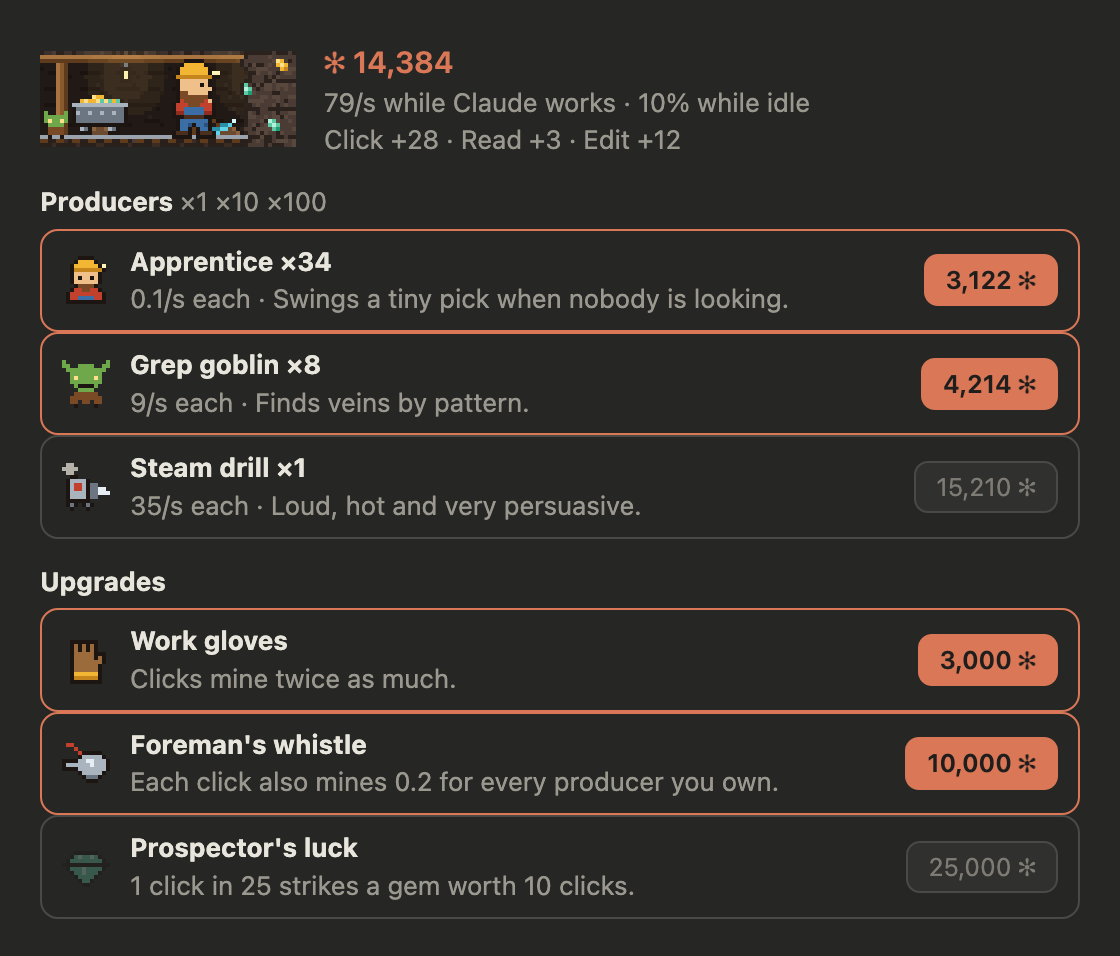
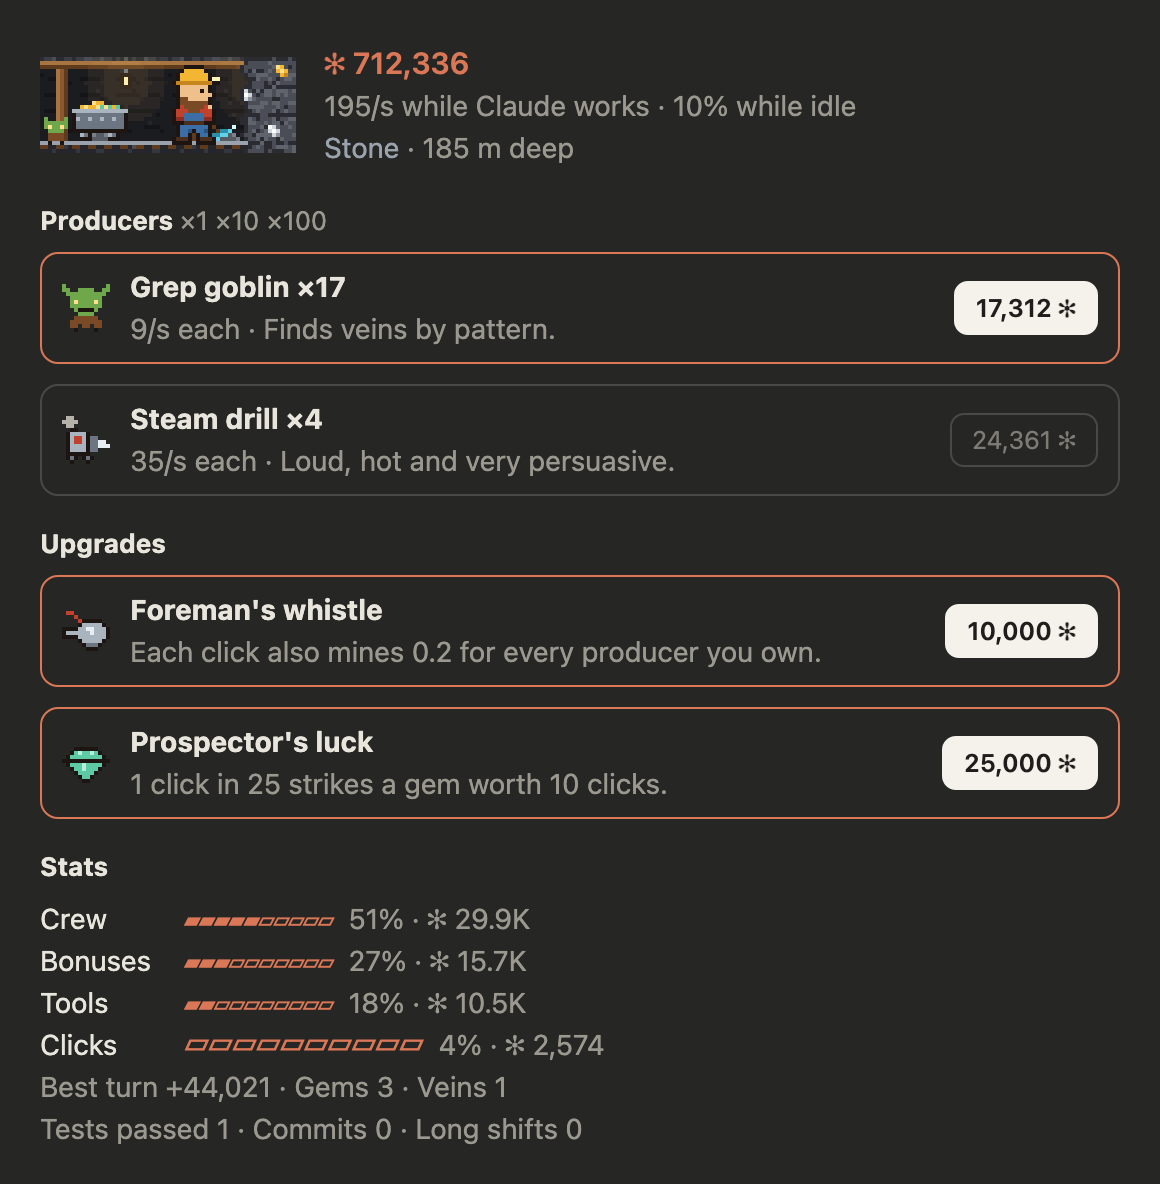
README for 0.5 (#10)
Install and update steps from the terminal, a new shop image with stats, and an image of the four layers.

Changed region(s): [[0.0312, 0.182, 0.9688, 0.9707], [0.0312, 0.0303, 0.75, 0.1517]]

diff --git a/README.md b/README.md
@@ -11,18 +11,27 @@ tool call Claude makes mines sparks ✻, and each press of **Mine** mines more.
 Claude's own work pays too: a test run that passes, a commit, a long turn.
 Spend it all in the shop on a crew that keeps digging, and on upgrades.
 
-<img src="docs/shop.png" alt="The shop: producers and upgrades with pixel icons" width="420">
+<img src="docs/shop.png" alt="The shop: producers, upgrades and stats, with pixel icons" width="420">
 
 ## Install
 
-Needs Claude Code v2.1.287 or later. In Claude Code, run:
+Needs Claude Code v2.1.287 or later. In a terminal, run:
 
-```
-/plugin install sparkmine --marketplace tozmoz/sparkmine
+```bash
+claude plugin marketplace add tozmoz/sparkmine
+claude plugin install sparkmine@sparkmine --scope user
 ```
 
-Pick the user scope to have it in every session, including the Code tab of
-the Claude Desktop app.
+The user scope puts it in every session, including the Code tab of the Claude
+Desktop app. New sessions load it; in open ones, run `/reload-plugins`. Inside Claude Code, `/plugin install sparkmine --marketplace
+tozmoz/sparkmine` does the same.
+
+To update later:
+
+```bash
+claude plugin marketplace update sparkmine
+claude plugin update sparkmine@sparkmine
+```
 
 ## Play
 
@@ -36,6 +45,9 @@ the Claude Desktop app.
   seconds. Catch it for two minutes of income, or a ×5 frenzy for thirty.
 - **Depth:** the mine goes a hundred metres deeper with every tenfold of
   sparks, through topsoil, stone, crystal caves and magma.
+
+  ![The four layers: topsoil, stone, crystal caves and magma](docs/layers.png)
+
 - **Collapse the mine** in the shop to trade a run for ◆ crystals, which add
   2% to everything for good. The mine starts again at the surface.
 
